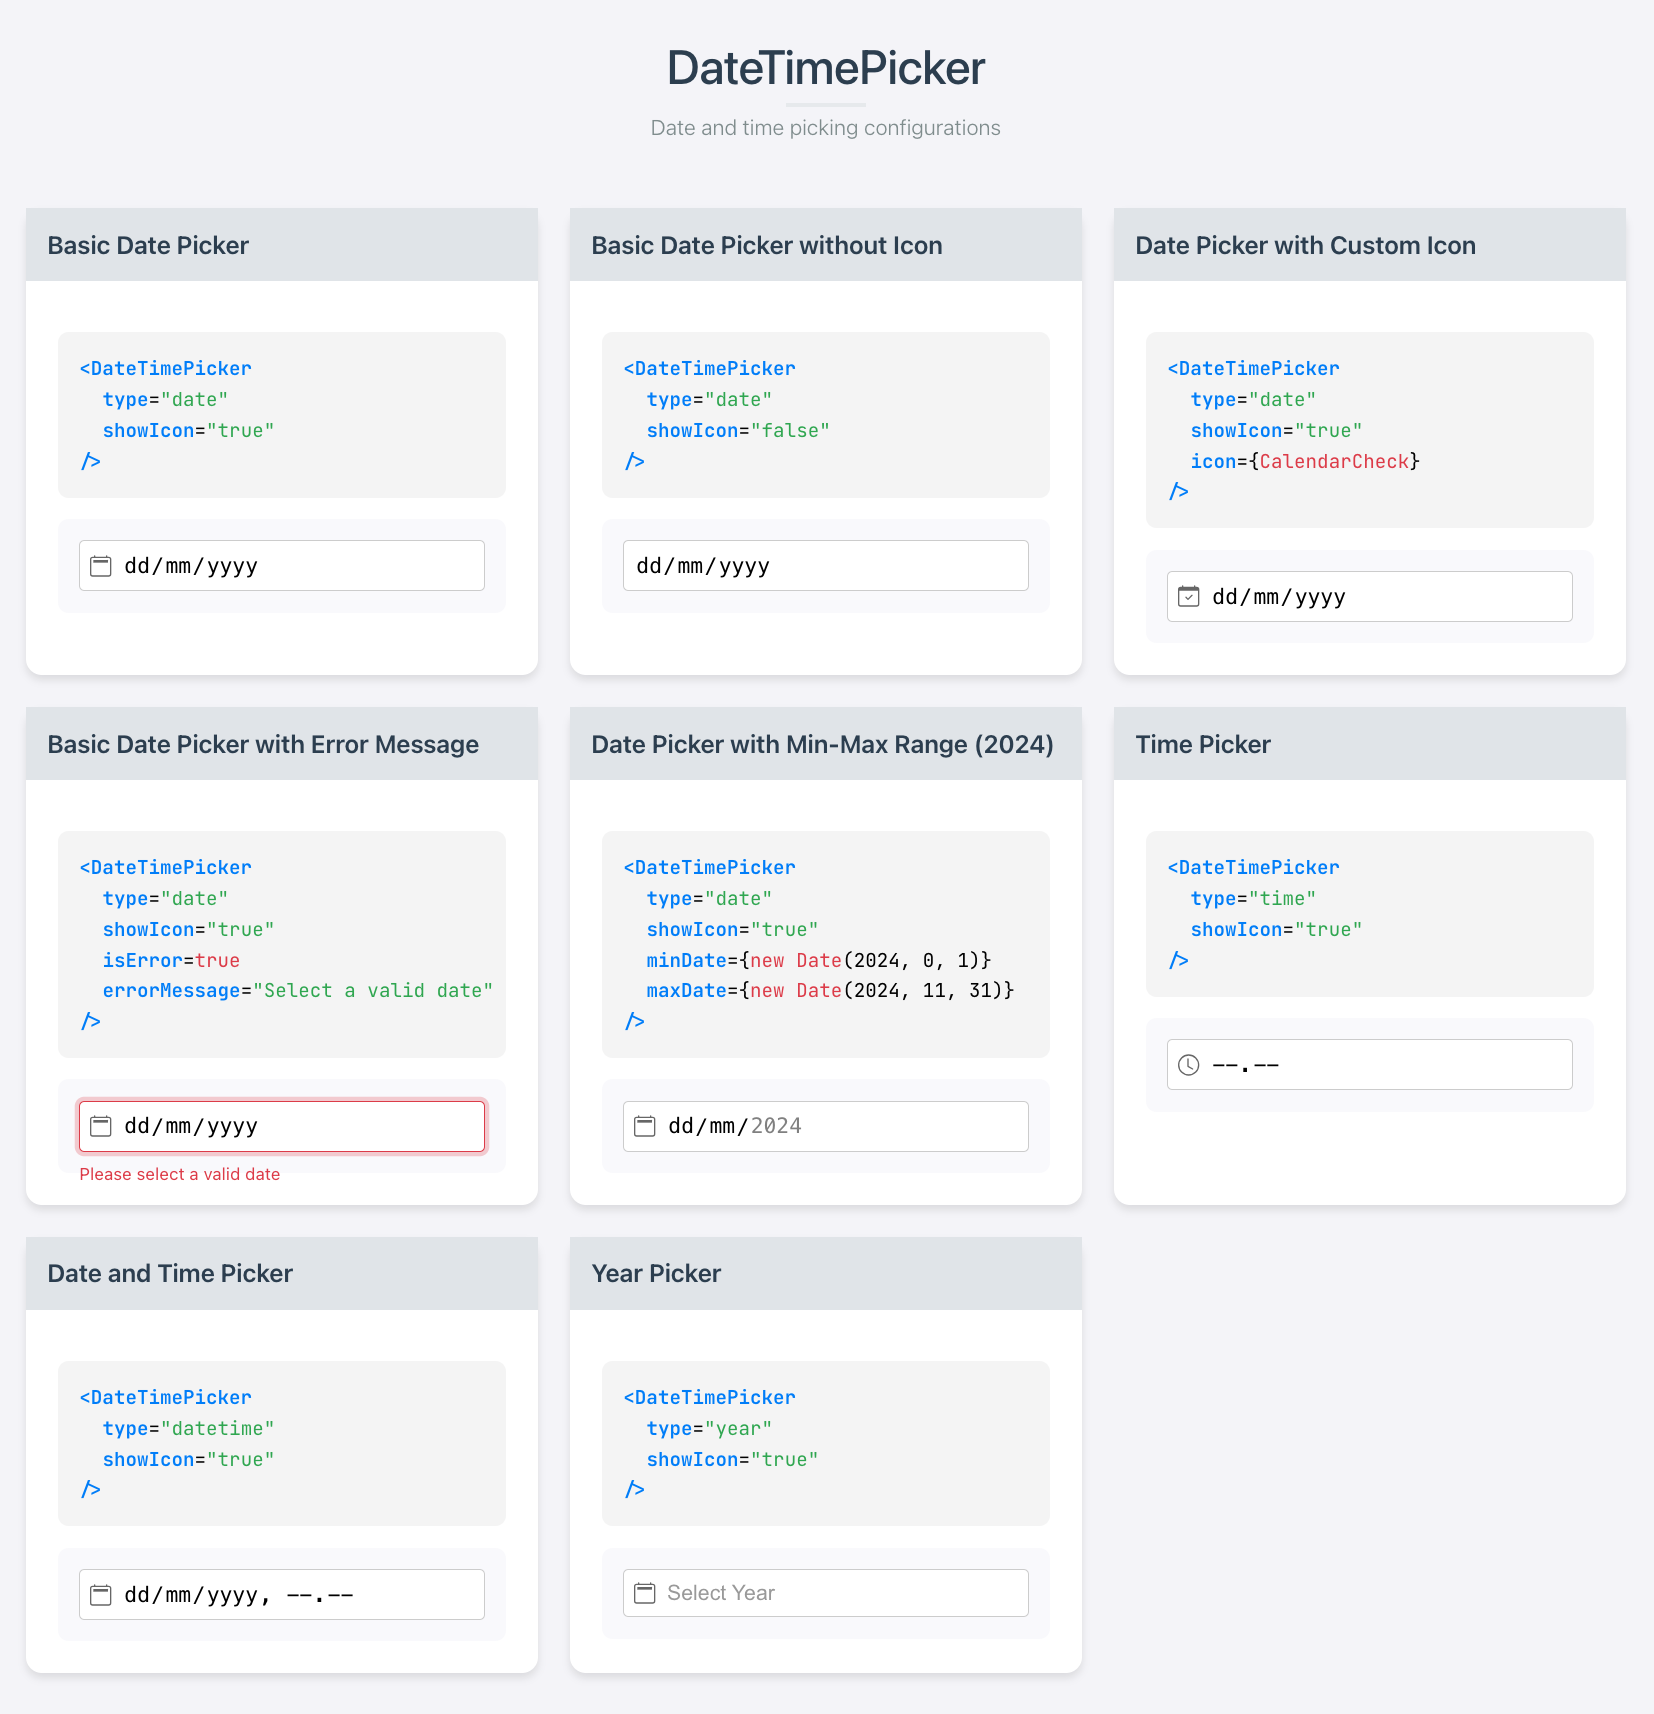
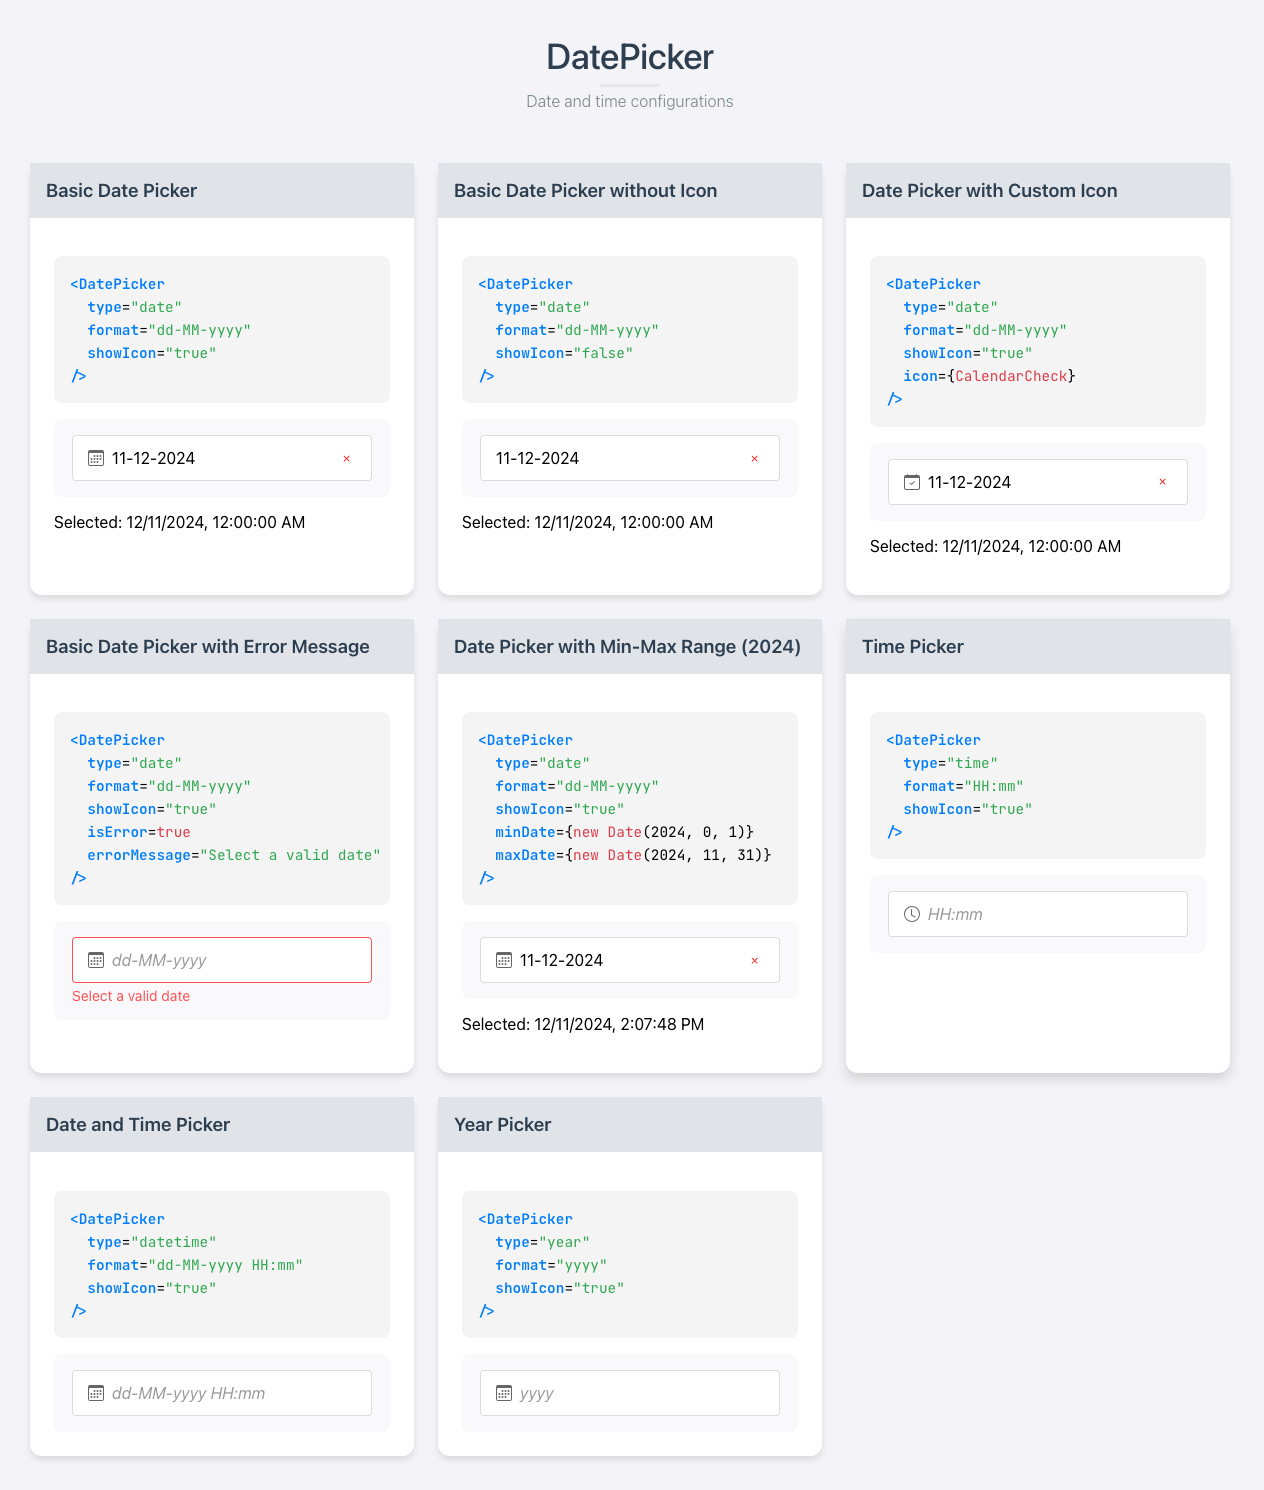
update readme

diff --git a/README.md b/README.md
@@ -9,10 +9,10 @@ This project showcases a versatile **DateTimePicker** React component with multi
 1. [Overview](#overview)
 2. [Features](#features)
 3. [Getting Started](#getting-started)
-4. [Component Props](#component-props)
-5. [Usage Examples](#usage-examples)
-6. [Customization](#customization)
-7. [Live Demo](#live-demo)
+4. [Live Demo](#live-demo)
+5. [Component Props](#component-props)
+6. [Usage Examples](#usage-examples)
+7. [Customization](#customization)
 
 ---
 
@@ -68,16 +68,23 @@ The project demonstrates how to implement and customize this component using Rea
 
 ---
 
+## Live Demo
+
+### Online Demo
+You can view the live demo of the DateTimePicker component at: 
+**https://mismiryandix.github.io/DateTimePicker/**
+
+---
+
 ## Component Props
 
 | Prop Name      | Type                      | Default           | Description                                                                                      |
 |----------------|---------------------------|-------------------|--------------------------------------------------------------------------------------------------|
-| `type`         | `'date' | 'time' | 'datetime' | 'year'` | `'datetime'`     | Defines the picker type (date, time, datetime, or year).                                         |
-| `format`       | `string`                  | `'yyyy-MM-dd'`    | Format of the displayed value (e.g., `HH:mm`, `yyyy-MM-dd HH:mm`).                              |
-| `placeholder`  | `string`                  | `'Select date and time'` | Placeholder text for the input field.                                                           |
-| `disabled`     | `boolean`                | `false`           | Disables the picker.                                                                             |
+| `type`         | `'date' | 'time' | 'datetime' | 'year'` | `'date'`     | Defines the picker type (date, time, datetime, or year).                                         |
+| `dateFormat`   | `string`                  | `'dd-MM-yyyy'`    | Format of the displayed value (e.g., `HH:mm`, `yyyy-MM-dd HH:mm`).                              |
+| `placeholder`  | `string`                  | `'Select date'` | Placeholder text for the input field.                                                           |
 | `defaultValue` | `Date`                    | `null`            | Sets the initial date value.                                                                    |
-| `showIcon`     | `boolean`                | `false`           | Toggles visibility of the picker icon.                                                          |
+| `isShowIcon`     | `boolean`                | `false`           | Toggles visibility of the picker icon.                                                          |
 | `icon`         | `React.ComponentType`     | `null`            | Custom icon component.                                                                           |
 | `minDate`      | `Date`                    | `null`            | Minimum selectable date.                                                                        |
 | `maxDate`      | `Date`                    | `null`            | Maximum selectable date.                                                                        |
@@ -133,9 +140,3 @@ import { CustomIcon } from './icons';
 Additionally, styles can be customized by overriding the default CSS classes in the `styles/App.scss`.
 
 ---
-
-## Live Demo
-
-### Online Demo
-You can view the live demo of the DateTimePicker component at: 
-**https://mismiryandix.github.io/DateTimePicker/**
